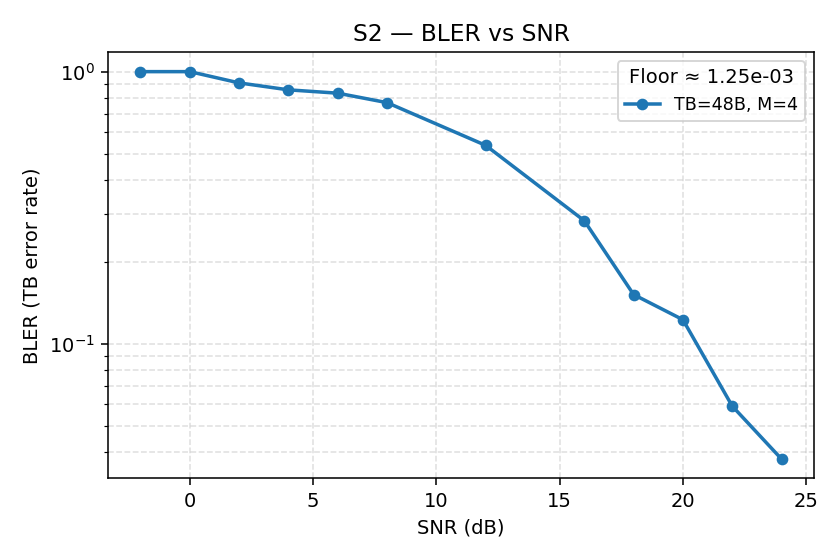
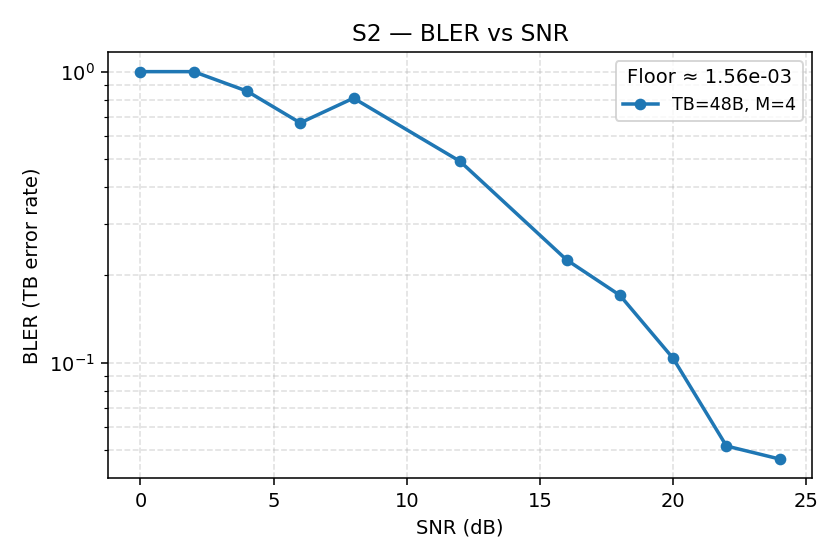
m2_then_bler autoramp true

diff --git a/nr_urllc/sweep.py b/nr_urllc/sweep.py
@@ -1,6 +1,6 @@
 # nr_urllc/sweep.py
 from __future__ import annotations
-from dataclasses import dataclass, asdict
+from dataclasses import dataclass, asdict, field
 from typing import Any, Dict, List, Callable, Optional
 import math
 import numpy as np
@@ -15,6 +15,8 @@ class SweepPoint:
     n_bits: int
     n_errs: int
     ber: float
+    evm_percent: float= float("nan") # <-- default so other sweep helpers still work
+    mse_H: float= float("nan")
 
 @dataclass
 class SweepResult:
@@ -23,16 +25,29 @@ class SweepResult:
     points: List[SweepPoint]
 
     @property
-    def ber_curve(self) -> Dict[str, float]:
-        return {f"{p.snr_db:.1f}": p.ber for p in self.points}
+    def snr_db(self) -> List[float]:
+        return [p.snr_db for p in self.points]
 
     @property
-    def n_bits_curve(self) -> Dict[str, int]:
-        return {f"{p.snr_db:.1f}": p.n_bits for p in self.points}
+    def ber_curve(self) -> List[float]:
+        return [p.ber for p in self.points]
 
     @property
-    def n_errs_curve(self) -> Dict[str, int]:
-        return {f"{p.snr_db:.1f}": p.n_errs for p in self.points}
+    def evm_curve(self) -> List[float]:
+        return [p.evm_percent for p in self.points]
+
+    @property
+    def mse_curve(self) -> List[float]:
+        return [p.mse_H for p in self.points]
+
+    @property
+    def n_bits_curve(self) -> List[int]:
+        return [p.n_bits for p in self.points]
+
+    @property
+    def n_errs_curve(self) -> List[int]:
+        return [p.n_errs for p in self.points]
+
 
 
 # ---------- theory helpers (array-safe) ----------
@@ -207,20 +222,6 @@ from copy import deepcopy
 from . import simulate
 from .pilots import comb_indices
 
-@dataclass
-class SweepResult:
-    success: bool
-    meta: Dict[str, Any]
-    points: List[SweepPoint]
-
-    @property
-    def snr_db(self): return [p.snr_db for p in self.points]
-    @property
-    def ber_curve(self): return [p.ber for p in self.points]
-    @property
-    def n_bits_curve(self): return [p.n_bits for p in self.points]
-    @property
-    def n_errs_curve(self): return [p.n_errs for p in self.points]
 
 def _bits_per_frame_M2(cfg: Dict[str, Any]) -> int:
     """Compute DATA bits per frame (payload only) for M2."""
@@ -263,6 +264,10 @@ def autoramp_ofdm_m2_sweep(
         total_bits = 0
         total_errs = 0
         n_bits_try = max(min_bits, bits_per_frame)
+        
+        # Track latest EVM/MSE measured at this SNR
+        last_evm_percent = float("nan")
+        last_mse_H = float("nan")
 
         rep = 0
         while total_bits < max_bits and total_errs < target_errs:
@@ -280,6 +285,17 @@ def autoramp_ofdm_m2_sweep(
 
             res = simulate.run(cfg)  # expects "ber": [value] for this single SNR
             ber = float(res["ber"][0])
+            # Pull EVM% and MSE from the M2 single-SNR result (use the first point)
+            try:
+                evm_seq = res.get("evm_percent", [])
+                last_evm_percent = float(evm_seq[0] if isinstance(evm_seq, (list, tuple, np.ndarray)) else evm_seq)
+            except Exception:
+                pass
+            try:
+                mse_seq = res.get("mse_H", [])
+                last_mse_H = float(mse_seq[0] if isinstance(mse_seq, (list, tuple, np.ndarray)) else mse_seq)
+            except Exception:
+                pass
 
             # infer evaluated bits = full frames worth (simulate pads/wraps)
             frames = int(math.ceil(n_bits_try / bits_per_frame))
@@ -303,7 +319,14 @@ def autoramp_ofdm_m2_sweep(
           ber_hat = 0.0    # keep field for backwards-compat
         #  ber_ub  = 1.0 / max(total_bits, 1)  # optional: add this in the result dict
 
-        points.append(SweepPoint(snr_db=float(snr), n_bits=total_bits, n_errs=total_errs, ber=ber_hat))
+        points.append(SweepPoint(
+            snr_db=float(snr),
+            n_bits=total_bits,
+            n_errs=total_errs,
+            ber=ber_hat,
+            evm_percent=last_evm_percent,
+            mse_H=last_mse_H,
+        ))
 
     meta = {
         "mode": "ofdm_m2",

diff --git a/nr_urllc/simulate.py b/nr_urllc/simulate.py
@@ -4,6 +4,7 @@ import json
 import numpy as np
 from pathlib import Path
 import math as m
+import copy
 
 from . import utils, ofdm, channel, fec
 from . import pilots as pilots_mod
@@ -542,8 +543,6 @@ def run_ofdm_m2(cfg: dict) -> dict:
 
     return out
 
-
-
 # ----------------------------- Public dispatcher --------------------------- #
 def run(cfg: dict) -> dict:
     """
@@ -552,8 +551,18 @@ def run(cfg: dict) -> dict:
       - 'baseline_awgn' : run_baseline_awgn(cfg)
       - 'ofdm_awgn'     : run_ofdm_awgn(cfg)
       - 'ofdm_m2'       : run_ofdm_m2(cfg)
+      - 'm2_then_bler'  : (alias → 'ofdm_m2' for PHY-stage calls)
     """
     sim_type = cfg.get("sim", {}).get("type", "baseline_awgn")
+    sim_type = str(sim_type).lower()  # normalize
+
+    # --- alias composite → phy handler (local deepcopy; caller cfg untouched) ---
+    if sim_type == "m2_then_bler":
+        cfg = copy.deepcopy(cfg)
+        cfg["sim"]["type"] = "ofdm_m2"
+        sim_type = "ofdm_m2"
+    # ---------------------------------------------------------------------------
+
     if sim_type == "baseline_awgn":
         return run_baseline_awgn(cfg)
     elif sim_type == "ofdm_awgn":
@@ -562,3 +571,4 @@ def run(cfg: dict) -> dict:
         return run_ofdm_m2(cfg)
     else:
         raise ValueError(f"Unknown sim.type: {sim_type}")
+

diff --git a/scripts/run_sims.py b/scripts/run_sims.py
@@ -113,16 +113,11 @@ def main():
         if use_autoramp:
             # Reuse autoramp M2 path
             res_auto = autoramp_ofdm_m2_sweep(
-                snr_db_list=ch["snr_db_list"],
-                seed=sim_cfg["seed"],
-                M=tx_cfg.get("M", 4),
-                nfft=ofdm["nfft"],
-                cp=ofdm["cp"],
-                n_subcarriers=ofdm["n_subcarriers"],
-                minislot_symbols=ofdm["minislot_symbols"],
-                target_errs=auto.get("target_errs", 100),
-                min_bits=auto.get("min_bits", 20_000),
-                max_bits=auto.get("max_bits", 2_000_000),
+                cfg,
+                target_errs=auto.get("target_errs", 200),
+                min_bits=auto.get("min_bits", 50_000),
+                max_bits=auto.get("max_bits", 10_000_000),
+                growth=auto.get("growth", 2.0),
             )
             m2_result = {
                 "success": res_auto.success, "snr_db": res_auto.snr_db, "ber": res_auto.ber_curve,
